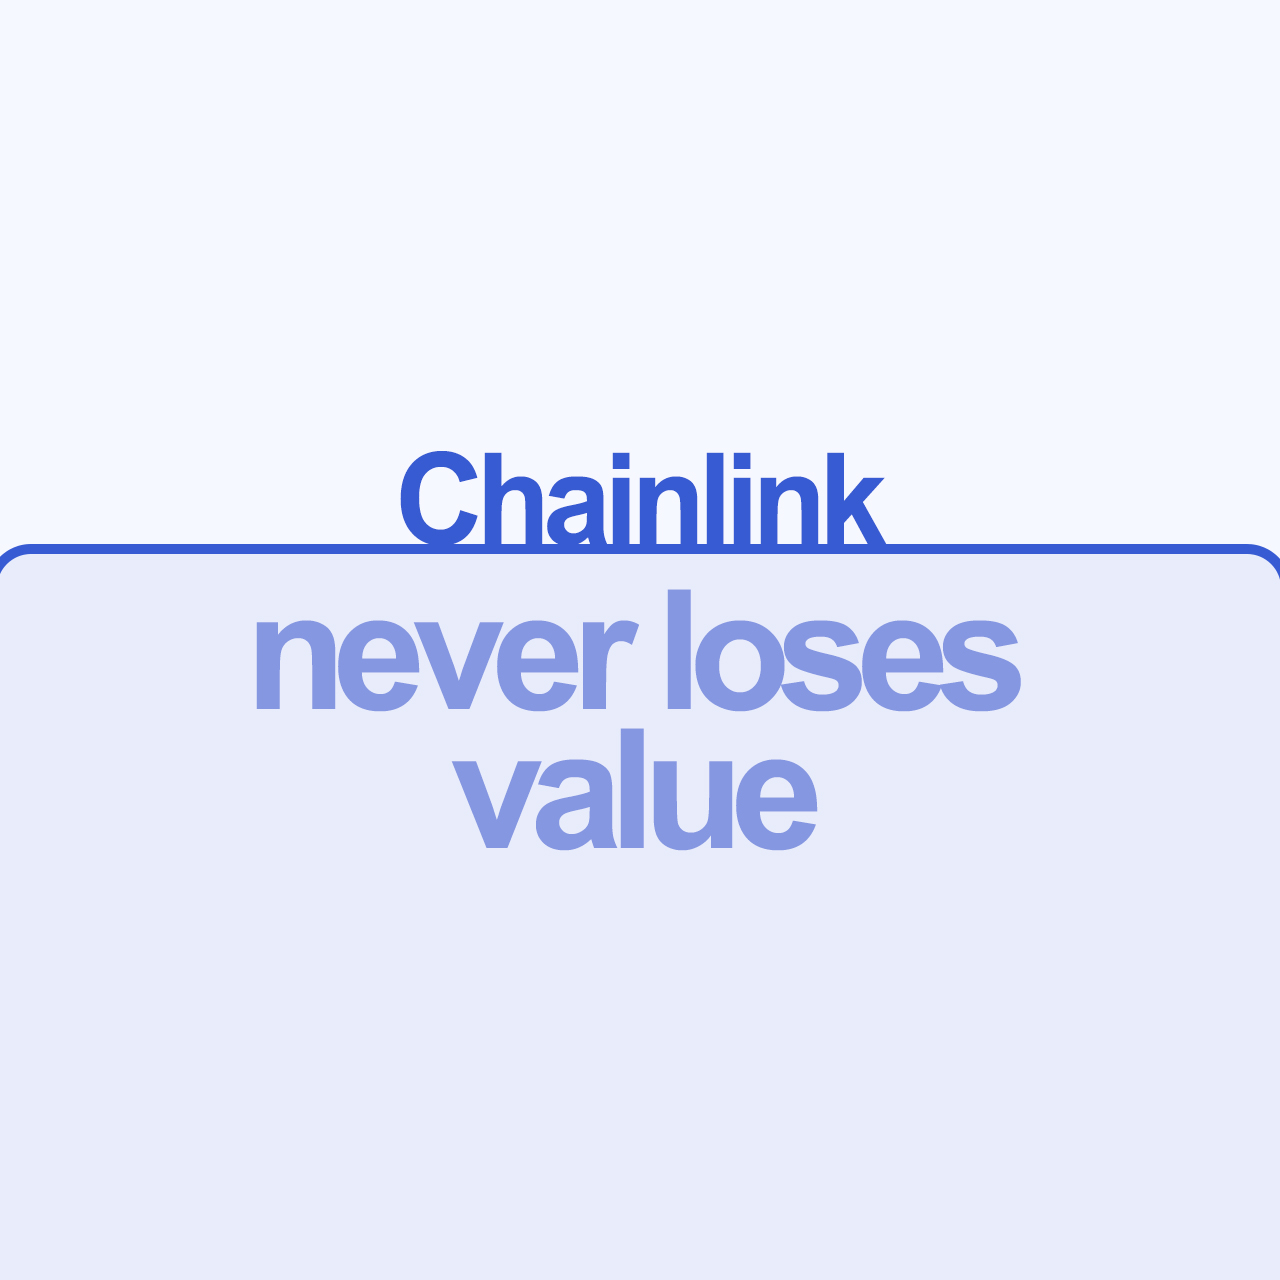
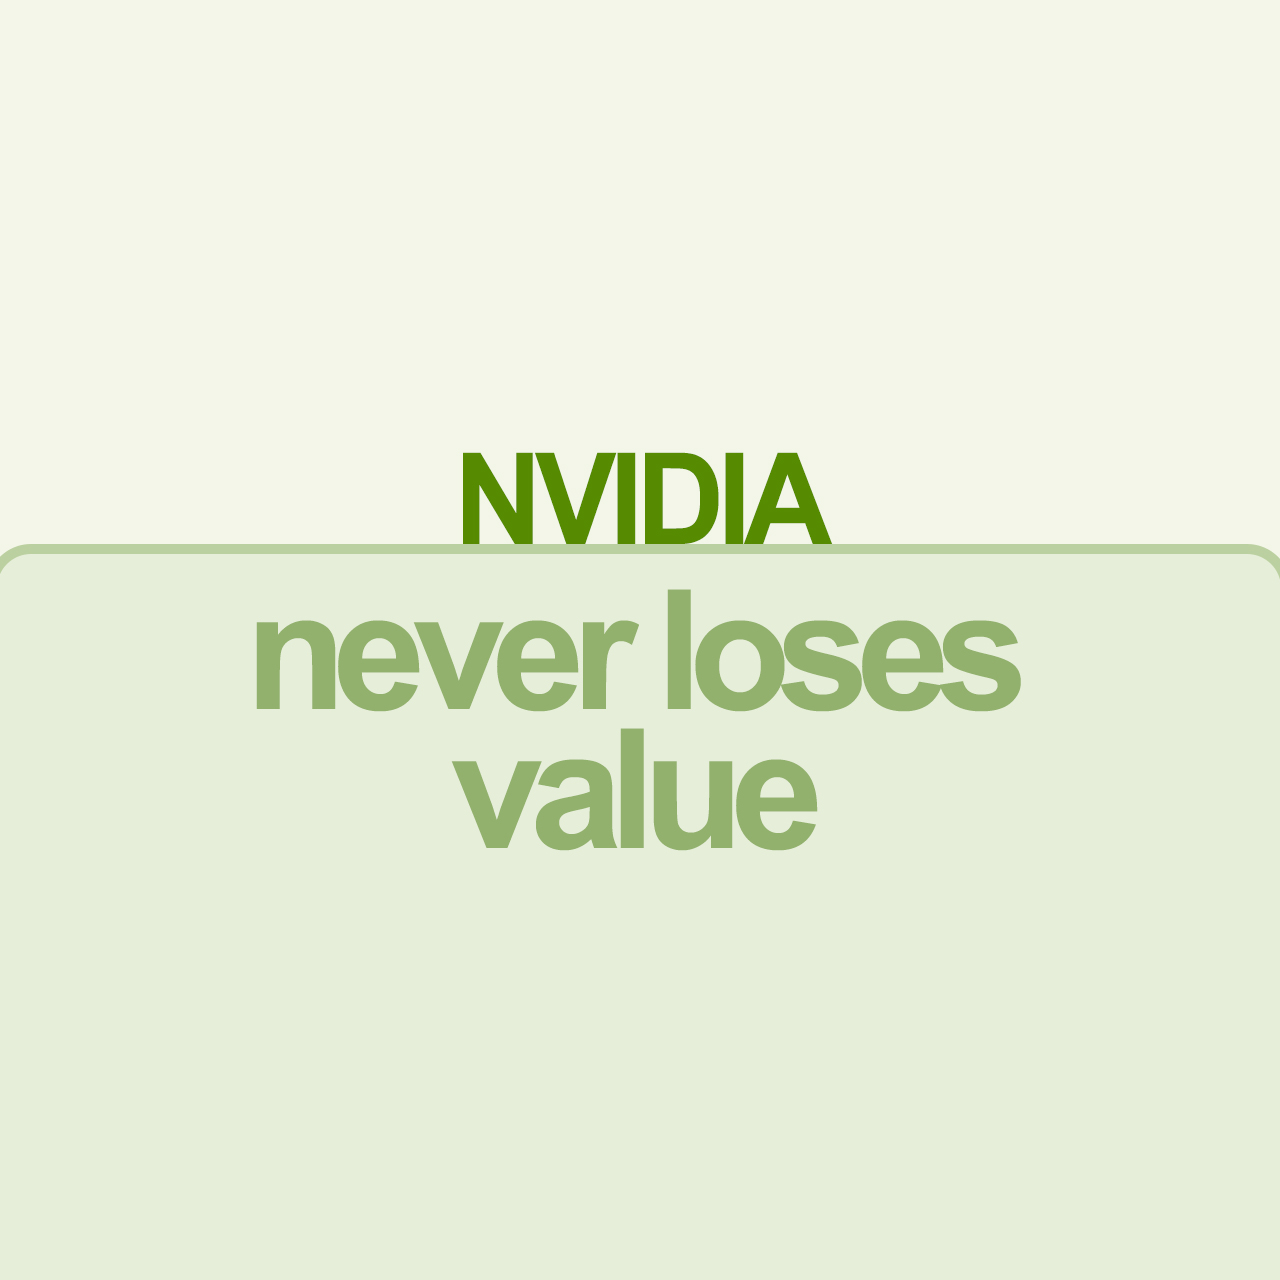
.

diff --git a/Build-Notes.md b/Build-Notes.md
@@ -6,9 +6,6 @@
 - find ~/Library/Application\ Support/Cursor/snapshots/roots -mindepth 1 -mtime +2 -delete
 - find ~/Library/Application\ Support/Cursor/User/globalStorage -mindepth 1 -mtime +2 -delete
 
-- Add MASSIVE_API_KEY to Amplify and prepare to switch to PRO (29.99 5 years historical data) after deployment
-- - Make brink1111111@outlook.com 
-
 - *switch from live to local testing false/true for myinv-engagement-v1 payments*
 -*brink1111111@outlook.com and j6767677@outlook.com test emails for incentives*
 
